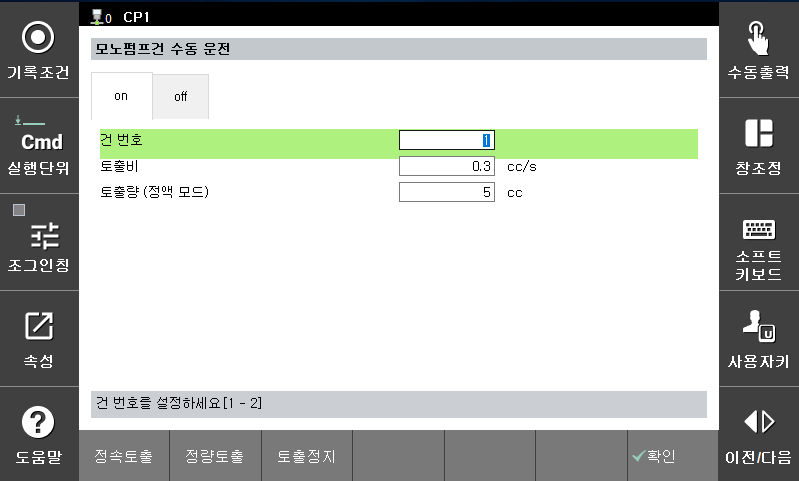
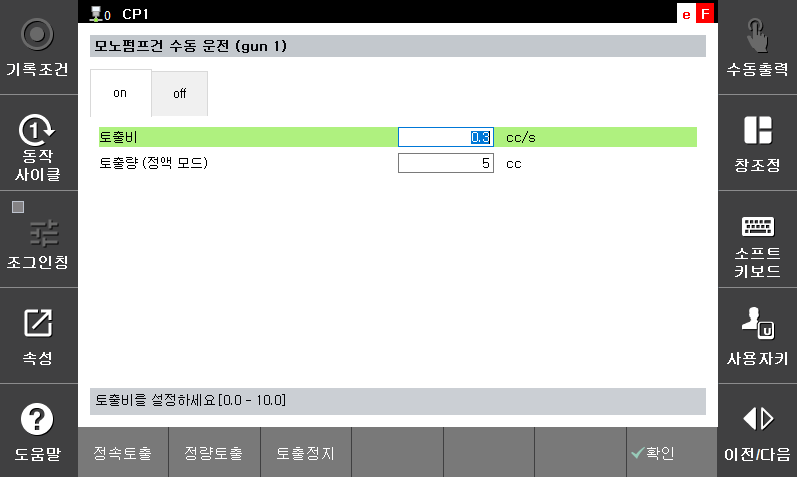
수동토출 사양변경에 따른 수정

diff --git a/5-etc/2-manual-oper.md b/5-etc/2-manual-oper.md
@@ -2,7 +2,6 @@
 
 [R371 : 실러 수동 운전]을 수행했을 때 표시되는 화면에서 모노펌프 건을 수동 운전할 수 있습니다.
 
-- 건 번호 : 수동 운전을 위한 건 번호를 설정합니다. <br>
 - 토출비 : 수동 운전을 위한 토출비를 설정합니다. <br>
 - 토출량 : 정량토출 동작시 토출량을 설정합니다. <br>
 
